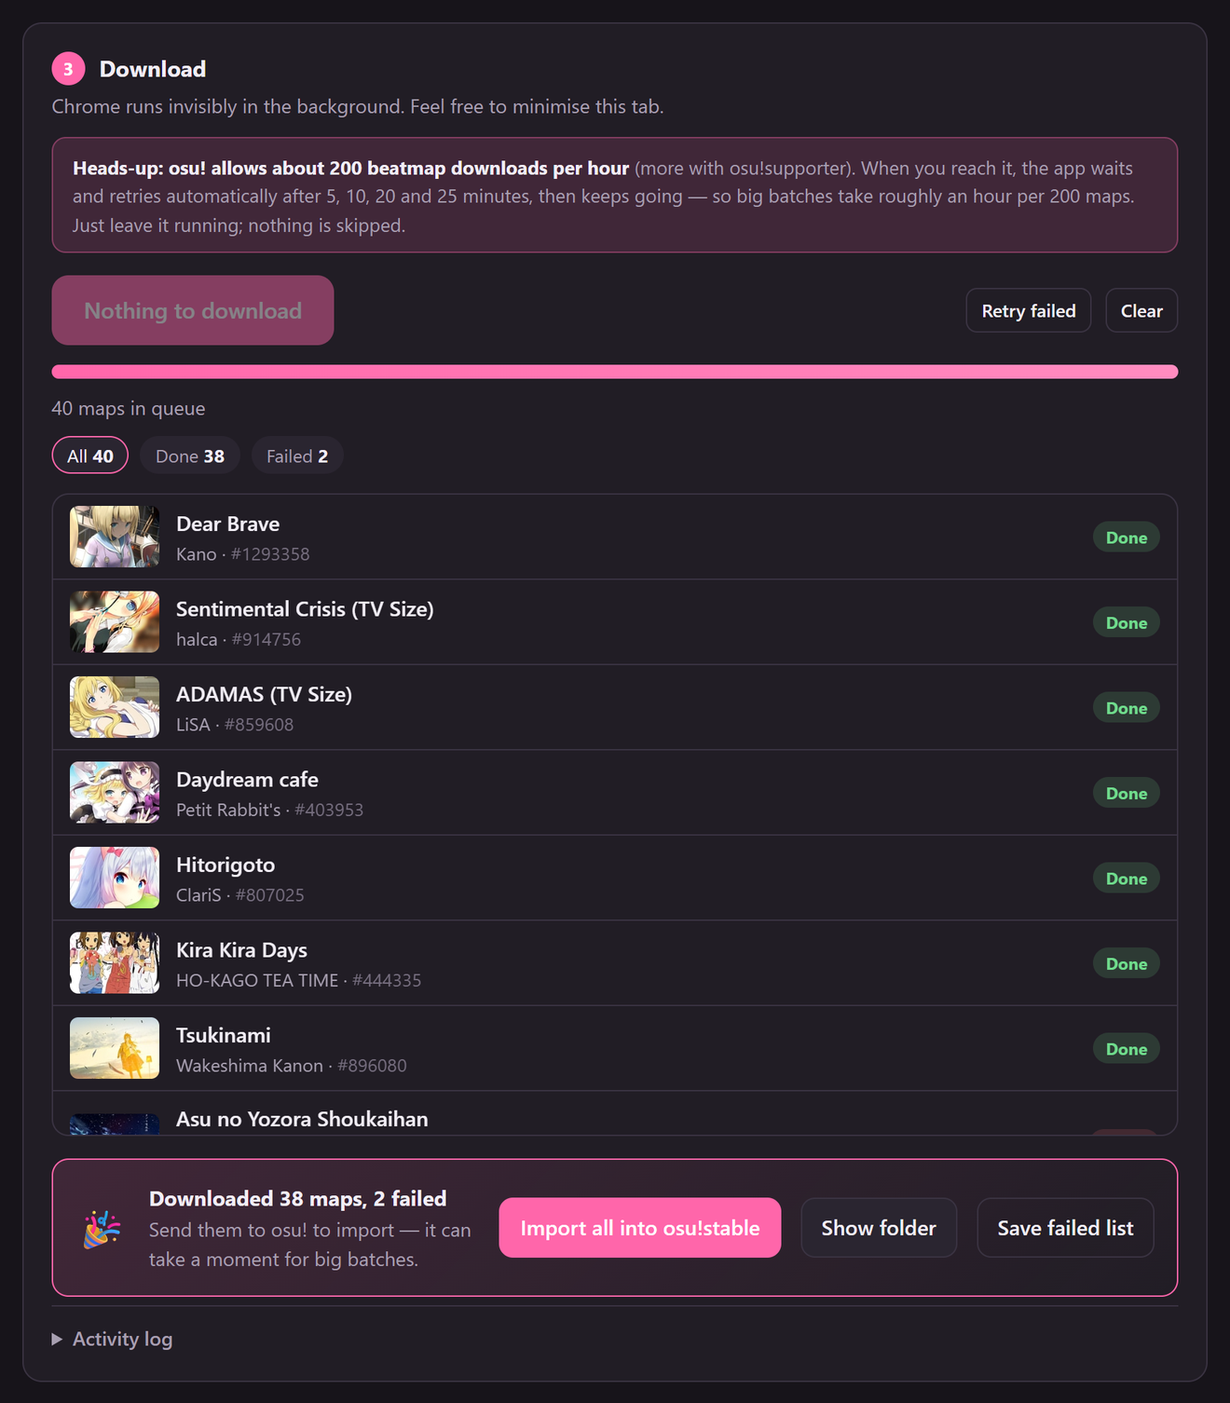
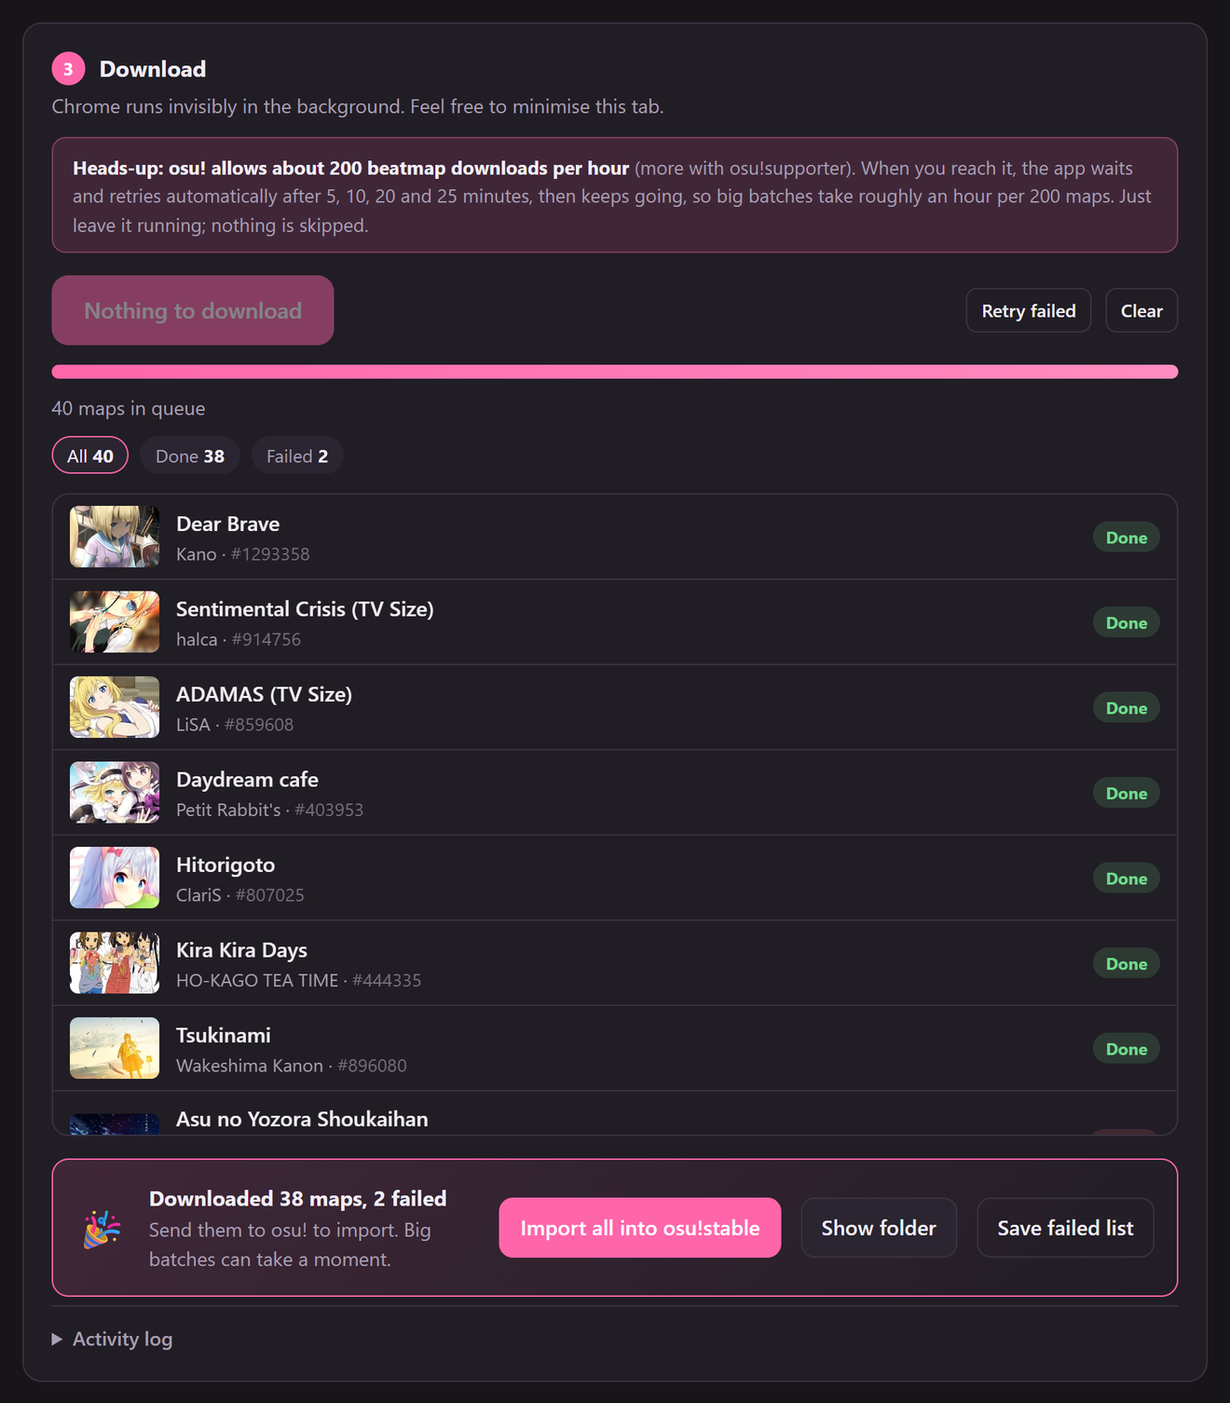
Remove em dashes from the app and README; retake options screenshot without the tooltip

Changed region(s): [[0.5591, 0.1248, 0.9318, 0.156], [0.1242, 0.8738, 0.3727, 0.905], [0.0621, 0.156, 0.3106, 0.1873]]

diff --git a/web/index.html b/web/index.html
@@ -214,7 +214,7 @@ footer { color: var(--dim); font-size: 12px; text-align: center; margin-top: 30p
   </div>
   <div id="loginWaiting" class="hidden">
     <p class="sub"><b>Sign in to osu! in the Chrome window that just opened</b> (including the captcha and any
-      email code). When you're signed in, click the button below — or just close that window.</p>
+      email code). When you're signed in, click the button below, or just close that window.</p>
     <div class="row" style="align-items:center">
       <button class="btn primary big" id="finishLoginBtn" onclick="act('finish-login')">I've signed in</button>
       <button class="btn" onclick="act('cancel-login')">Cancel</button>
@@ -260,7 +260,7 @@ footer { color: var(--dim); font-size: 12px; text-align: center; margin-top: 30p
   </div>
 
   <div id="tab-list" class="hidden">
-    <label class="f" for="pasteBox">Beatmap IDs or links — one per line</label>
+    <label class="f" for="pasteBox">Beatmap IDs or links, one per line</label>
     <textarea id="pasteBox" placeholder="1293358&#10;https://osu.ppy.sh/beatmapsets/914756#osu/1911308&#10;…"></textarea>
     <div class="row" style="margin-top:10px">
       <button class="btn primary" onclick="pasteList()">Load list</button>
@@ -280,7 +280,7 @@ footer { color: var(--dim); font-size: 12px; text-align: center; margin-top: 30p
         </div>
       </div>
       <div class="field">
-        <label class="f" for="songsDir">osu!stable Songs folder <span style="font-weight:400">(optional — skips maps you already own)</span></label>
+        <label class="f" for="songsDir">osu!stable Songs folder <span style="font-weight:400">(optional, skips maps you already own)</span></label>
         <div class="row">
           <input id="songsDir" type="text" class="grow" placeholder="e.g. C:\Users\you\AppData\Local\osu!\Songs" onchange="saveSettings({songs_dir: this.value})">
           <button class="btn" onclick="browse('songsDir', 'Select your osu! Songs folder')">Browse…</button>
@@ -293,7 +293,7 @@ footer { color: var(--dim); font-size: 12px; text-align: center; margin-top: 30p
             <span class="tip-body" role="tooltip">
               <b>osu!lazer</b> stores beatmaps as files named by their SHA-256 hash, so you won't see normal
               song folders you can browse, back up or share.<br><br>
-              Importing into <b>osu!stable</b> keeps a regular <code>Songs</code> folder — and you can still use
+              Importing into <b>osu!stable</b> keeps a regular <code>Songs</code> folder, and you can still use
               those maps in lazer by pointing it at your stable install
               (lazer → Settings → Maintenance → import from stable).
             </span>
@@ -321,8 +321,8 @@ footer { color: var(--dim); font-size: 12px; text-align: center; margin-top: 30p
       </div>
       <div class="help">
         <b>Missing some maps?</b> Turn on <i>Show explicit content</i> in your
-        <a href="https://osu.ppy.sh/home/account/edit" target="_blank" rel="noopener">osu! account settings</a>
-        — otherwise osu! hides the download button for those maps.
+        <a href="https://osu.ppy.sh/home/account/edit" target="_blank" rel="noopener">osu! account settings</a>.
+        Otherwise, osu! hides the download button for those maps.
         <br><span id="historyInfo"></span>
       </div>
     </div>
@@ -335,7 +335,7 @@ footer { color: var(--dim); font-size: 12px; text-align: center; margin-top: 30p
   <p class="sub">Chrome runs invisibly in the background. Feel free to minimise this tab.</p>
   <div class="notice">
     <b>Heads-up: osu! allows about 200 beatmap downloads per hour</b> (more with osu!supporter).
-    When you reach it, the app waits and retries automatically after 5, 10, 20 and 25 minutes, then keeps going —
+    When you reach it, the app waits and retries automatically after 5, 10, 20 and 25 minutes, then keeps going,
     so big batches take roughly an hour per 200 maps. Just leave it running; nothing is skipped.
   </div>
   <div class="row" style="align-items:center">
@@ -352,7 +352,7 @@ footer { color: var(--dim); font-size: 12px; text-align: center; margin-top: 30p
 
   <div class="stats" id="stats" style="margin-top:10px"></div>
 
-  <div class="list" id="list"><div class="empty">Your queue is empty — pick some beatmaps above.</div></div>
+  <div class="list" id="list"><div class="empty">Your queue is empty. Pick some beatmaps above.</div></div>
 
   <div class="done-banner" id="doneBanner">
     <div class="big-emoji">🎉</div>
@@ -372,7 +372,7 @@ footer { color: var(--dim); font-size: 12px; text-align: center; margin-top: 30p
 </section>
 
 <footer>
-  Not affiliated with ppy. Please be kind to osu!'s servers — keep the delays sensible.
+  Not affiliated with ppy. Please be kind to osu!'s servers and keep the delays sensible.
   · <a href="/api/export?which=all">Export queue</a>
 </footer>
 </div>
@@ -481,7 +481,7 @@ function render() {
   $('n1').classList.toggle('ok', signedIn); $('n1').textContent = signedIn ? '✓' : '1';
   $('loginBtn').disabled = !!S.busy || S.running;
 
-  // step 2 — only fill inputs the user isn't editing
+  // step 2: only fill inputs the user isn't editing
   const setVal = (el, v) => { if (document.activeElement !== el) el.value = v; };
   setVal($('folder'), S.folder); setVal($('songsDir'), S.songs_dir);
   if (!$('userQuery').dataset.init) { $('userQuery').value = S.last_user_query; $('userQuery').dataset.init = 1; }
@@ -535,7 +535,7 @@ function render() {
     const etaText = eta ? ` · ~${eta} left` + (j.hourly_limit && (c.queued || 0) > 0 && j.eta > 3600 ? ' incl. osu! limit waits' : '') : '';
     if (j.limited && j.retry_at) {
       const at = new Date(j.retry_at * 1000).toLocaleTimeString([], {hour: 'numeric', minute: '2-digit'});
-      now = `<div class="spinner"></div><span class="waiting">osu!'s hourly download limit reached — retrying at <b>${at}</b> (attempt ${j.retry_attempt} of ${j.retry_attempts})</span>`
+      now = `<div class="spinner"></div><span class="waiting">osu!'s hourly download limit reached. Retrying at <b>${at}</b> (attempt ${j.retry_attempt} of ${j.retry_attempts})</span>`
           + ` <span class="grow"></span> ${finished}/${want}${etaText}`;
     } else {
       now = `<div class="spinner"></div>` + (cur ? `Downloading <b>${esc(cur.title || '#' + cur.id)}</b>` : 'Working…')
@@ -562,7 +562,7 @@ function render() {
     const rows = S.queue.filter(i => filter === 'all' || i.status === filter);
     const shown = rows.slice(0, 500);
     $('list').innerHTML = !rows.length
-      ? `<div class="empty">${total ? 'Nothing here.' : 'Your queue is empty — pick some beatmaps above.'}</div>`
+      ? `<div class="empty">${total ? 'Nothing here.' : 'Your queue is empty. Pick some beatmaps above.'}</div>`
       : shown.map(i => `
         <div class="item s-${i.status}">
           <img loading="lazy" src="https://assets.ppy.sh/beatmaps/${i.id}/covers/list.jpg" alt="" onerror="this.style.visibility='hidden'">
@@ -583,7 +583,7 @@ function render() {
   $('doneBanner').classList.toggle('show', !!showDone);
   if (showDone) {
     $('doneTitle').textContent = `Downloaded ${c.done || 0} map${c.done === 1 ? '' : 's'}` + (c.failed ? `, ${c.failed} failed` : '');
-    $('doneSub').textContent = S.opts.auto_open ? 'They were sent to osu! as they finished.' : 'Send them to osu! to import — it can take a moment for big batches.';
+    $('doneSub').textContent = S.opts.auto_open ? 'They were sent to osu! as they finished.' : 'Send them to osu! to import. Big batches can take a moment.';
     $('exportFailed').classList.toggle('hidden', !c.failed);
   }
   if (wasRunning && !S.running) {
@@ -617,7 +617,7 @@ async function poll() {
     appendLogs(S.logs);
     render();
   } catch {
-    $('now').innerHTML = '<span class="warn">Lost connection to the app — is its window still open?</span>';
+    $('now').innerHTML = '<span class="warn">Lost connection to the app. Is its window still open?</span>';
   } finally { polling = false; }
 }
 setInterval(poll, 800);

diff --git a/app.py b/app.py
@@ -1,4 +1,4 @@
-"""osu! Beatmap Downloader — local web UI.
+"""osu! Beatmap Downloader: local web UI.
 
 Run `python app.py` (or start.bat, or the built exe) and a browser tab opens. Everything stays on
 this machine: the server only listens on 127.0.0.1.
@@ -38,7 +38,7 @@ def _writable(path):
 
 DATA = APP_DIR / "data"
 if not _writable(DATA):
-    # e.g. unzipped into Program Files — fall back to the user's AppData
+    # e.g. unzipped into Program Files, so fall back to the user's AppData
     APP_DIR = Path(os.environ.get("LOCALAPPDATA", Path.home())) / "osu! Beatmap Downloader"
     DATA = APP_DIR / "data"
     DATA.mkdir(parents=True, exist_ok=True)
@@ -123,7 +123,7 @@ class State:
                 self.save_history()
 
     def clients(self):
-        """Which osu! installs exist (cached briefly — this runs on every UI poll)."""
+        """Which osu! installs exist (cached briefly, since this runs on every UI poll)."""
         now = time.time()
         if now - getattr(self, "_clients_at", 0) > 10:
             self._clients = {c: core.find_osu(c, self.songs_dir, self.osu_paths[c])
@@ -208,7 +208,7 @@ def act_login(_):
 
     def run():
         try:
-            S.log("info", "Opened a Chrome window — sign in to osu! there.")
+            S.log("info", "Opened a Chrome window. Sign in to osu! there.")
             user = core.sign_in(PROFILE_DIR, cancel, done)
             S.user = user
             S.save_config()
@@ -270,7 +270,7 @@ def act_fetch(body):
                                      on_progress=lambda n: setattr(S, "busy", f"Fetching… {n} maps"))
         S.set_queue(items)
         have = sum(1 for i in items if i["status"] == "have")
-        S.log("ok", f"Found {len(items)} beatmap sets" + (f" — {have} you already have." if have else "."))
+        S.log("ok", f"Found {len(items)} beatmap sets" + (f", {have} of which you already have." if have else "."))
     in_background("Fetching…", run)
 
 
@@ -294,7 +294,7 @@ def act_settings(body):
             if client not in S.osu_paths:
                 continue
             if folder and not core.osu_in_folder(client, folder):
-                raise ValueError(f"Couldn't find osu!{client} in that folder — pick the folder that contains osu!.exe.")
+                raise ValueError(f"Couldn't find osu!{client} in that folder. Pick the folder that contains osu!.exe.")
             S.osu_paths[client] = folder
             S._clients_at = 0  # re-detect
         if "opts" in body:
@@ -318,7 +318,7 @@ def act_start(_):
     if not S.user:
         raise ValueError("Sign in first.")
     if not any(i["status"] == "queued" for i in S.queue):
-        raise ValueError("Nothing to download — the queue is empty or you already have everything.")
+        raise ValueError("Nothing to download: the queue is empty or you already have everything.")
     opts = {**S.opts, "songs_dir": S.songs_dir, "osu_paths": dict(S.osu_paths)}
     S.job = core.Downloader(S.queue, PROFILE_DIR, S.folder, opts, S.on_item, S.log)
     S.job.start()
@@ -331,7 +331,7 @@ def act_pause(_):
             S.log("info", "Resumed.")
         else:
             S.job.pause_flag.set()
-            S.log("info", "Paused — the current map will finish first.")
+            S.log("info", "Paused. The current map will finish first.")
 
 
 def act_stop(_):
@@ -397,7 +397,7 @@ def act_open_all(_):
         if used != client:
             S.log("warn", f"osu!{client} isn't installed, so the maps went to "
                           f"{'osu!' + used if used != 'default' else 'the default app'} instead.")
-        S.log("ok", "Handed everything to osu! — it'll finish importing on its own.")
+        S.log("ok", "Handed everything to osu!, which will finish importing on its own.")
     in_background("Importing…", run)
 
 
@@ -543,7 +543,7 @@ def main():
         # double-clicking the exe again just brings the existing app back up
         if open_browser:
             webbrowser.open(f"http://127.0.0.1:{preferred}/")
-        print("Already running — opened it in your browser.")
+        print("Already running, so it was opened in your browser.")
         return
 
     # we're the only copy running, so anything left in temp is from an earlier session

diff --git a/osu_core.py b/osu_core.py
@@ -300,7 +300,7 @@ def _duration(seconds):
 
 
 # osu! allows a fixed number of downloads per rolling hour (200 for regular accounts,
-# more for osu!supporters). When it refuses, retry on this cycle — it adds up to an hour,
+# more for osu!supporters). When it refuses, retry on this cycle. It adds up to an hour,
 # so the 4th retry lands after the window has rolled over. Then start again at 5 min.
 QUOTA_RETRY_WAITS = (5 * 60, 10 * 60, 20 * 60, 25 * 60)
 DEFAULT_HOURLY_LIMIT = 200
@@ -494,7 +494,7 @@ class Downloader:
                 self._set(item, "failed", error=reason)
                 self.log("warn", f"{item['id']}: {reason}")
                 if fails_in_row >= 3:
-                    self.log("warn", f"Several failures in a row — osu! may be rate limiting. "
+                    self.log("warn", f"Several failures in a row, so osu! may be rate limiting. "
                                      f"Cooling down for {_duration(cooldown)}.")
                     if not self._sleep(cooldown):
                         return
@@ -508,7 +508,7 @@ class Downloader:
         if used != wanted and not self.warned_client:
             self.warned_client = True
             other = f"osu!{used}" if used != "default" else "the default app"
-            self.log("warn", f"osu!{wanted} isn't installed — importing with {other} instead.")
+            self.log("warn", f"osu!{wanted} isn't installed, so importing with {other} instead.")
 
     def _download_one(self, driver, item, timeout):
         sid = item["id"]
@@ -645,7 +645,7 @@ def import_into_osu(path, client, songs_dir="", custom_paths=None):
 
 
 def open_file(path):
-    """Hand a file/folder to the OS — .osz files open in whichever osu! owns the file type."""
+    """Hand a file or folder to the OS (.osz files open in whichever osu! owns the file type)."""
     import subprocess, sys
     if os.name == "nt":
         # explorer hands the file to its default app from the desktop shell, so that app

diff --git a/README.md b/README.md
@@ -6,7 +6,7 @@
 
 **Bulk-download osu! beatmaps in the background, then import them into osu! in one click.**
 
-Your most played maps, a friend's favourites, or any list of IDs — hundreds at a time,
+Your most played maps, a friend's favourites, or any list of IDs, hundreds at a time,
 with a simple app that runs on your own PC.
 
 [![Download](https://img.shields.io/github/v/release/AustinKol/osubeatmapdownloader?label=download&style=for-the-badge&color=ff66aa)](https://github.com/AustinKol/osubeatmapdownloader/releases/latest)
@@ -36,10 +36,10 @@ So far, this is still the best way that I know of to recover lost beatmaps folde
 
 ## Features
 
-- **Grab whole lists at once.** A player's *most played*, *favourites*, *ranked*, *loved*, *guest* or *graveyard* maps — or paste IDs/links, or open a `.txt` a friend sent you.
+- **Grab whole lists at once.** A player's *most played*, *favourites*, *ranked*, *loved*, *guest* or *graveyard* maps. You can also paste IDs/links or open a `.txt` a friend sent you.
 - **Runs invisibly.** Chrome works in the background (headless). No windows popping up, no need to close your browser first.
 - **Skips what you already have.** Maps in your osu!stable `Songs` folder, in the download folder, or downloaded in an earlier session.
-- **One-click import** into **osu!stable** or **osu!lazer** — or automatically as each map finishes.
+- **One-click import** into **osu!stable** or **osu!lazer**, or automatically as each map finishes.
 - **Handles osu!'s hourly limit for you.** When osu! stops accepting downloads, the app waits and retries on its own, and the time estimate includes those waits. Pause, resume, stop and retry failed maps any time.
 - **Portable.** Unzip and run. Settings, downloads and everything else stay inside the app's folder.
 - **Share your library.** Export your Songs folder as an ID list your friends can load.
@@ -52,14 +52,14 @@ So far, this is still the best way that I know of to recover lost beatmaps folde
 
 > [!NOTE]
 > The app isn't code-signed, so Windows SmartScreen may say it *protected your PC*.
-> Click **More info → Run anyway**. The full source is right here if you'd like to check it — or [run it from source](#run-from-source).
+> Click **More info → Run anyway**. The full source is right here if you'd like to check it, or you can [run it from source](#run-from-source).
 
-A black window opens (that's the app — keep it open while downloading, close it to quit) and your browser shows the interface.
+A black window opens (that's the app: keep it open while downloading and close it to quit) and your browser shows the interface.
 
 > [!IMPORTANT]
 > **osu! allows about 200 beatmap downloads per hour** (osu!supporters get more). This is a limit on osu!'s side
 > and there's no way around it. When you reach it, the app waits and retries automatically after **5, 10, 20 and
-> 25 minutes** (an hour in total), then carries on — repeating that cycle if it's still blocked. Big batches
+> 25 minutes** (an hour in total), then carries on, repeating that cycle if it's still blocked. Big batches
 > therefore take roughly **an hour per 200 maps**: 1,000 maps is about 5 hours. Just leave it running; nothing is
 > skipped, and the time-left estimate already includes the waits.
 
@@ -82,11 +82,11 @@ The app doesn't control that window or read what you type.
 
 ### 2. Choose beatmaps
 
-Type a player name (or leave it empty for yourself), pick a list and how many maps you want — or switch to **From a list** and paste IDs or links.
+Type a player name (or leave it empty for yourself), pick a list and how many maps you want. Or switch to **From a list** and paste IDs or links.
 
 Open **Folders & options** to choose where maps are saved, point the app at your osu!stable `Songs` folder so it skips maps you own, and pick which osu! to import into:
 
-<img src="docs/images/options.png" width="660" alt="Options: download folder, Songs folder, import into osu!stable (recommended) or osu!lazer, with an explanatory tooltip">
+<img src="docs/images/options.png" width="660" alt="Options: download folder, Songs folder, import into osu!stable (recommended) or osu!lazer">
 
 <details>
 <summary><b>osu!stable or osu!lazer?</b></summary>
@@ -94,7 +94,7 @@ Open **Folders & options** to choose where maps are saved, point the app at your
 <br>
 
 **osu!stable is recommended.** osu!lazer stores beatmaps as files named by their SHA-256 hash, so there's no
-normal `Songs` folder you can browse, back up or share. Importing into stable keeps regular song folders — and
+normal `Songs` folder you can browse, back up or share. Importing into stable keeps regular song folders, and
 lazer can still use them: in lazer, go to **Settings → Maintenance** and import from your stable install.
 
 The app finds both automatically (wherever they're installed). If it can't, click **Locate…** and pick the folder
@@ -103,7 +103,7 @@ that contains `osu!.exe`. If the one you chose isn't installed, it falls back to
 
 ### 3. Download
 
-Hit **Download**. You can minimise the tab — the list, progress bar and time estimate keep updating. If osu!'s hourly
+Hit **Download**. You can minimise the tab while the list, progress bar and time estimate keep updating. If osu!'s hourly
 limit kicks in, the status line shows when the next retry happens.
 
 <img src="docs/images/queue.png" width="660" alt="Download step with a queue of 40 maps ready to download">
@@ -117,11 +117,11 @@ When it's done, click **Import all into osu!** (or tick *Import as they finish* 
 | Problem | Fix |
 |---|---|
 | **"No download button"** for some maps | Turn on **Show explicit content** in your [osu! account settings](https://osu.ppy.sh/home/account/edit). Otherwise the map may have been removed. |
-| **"osu!'s hourly download limit reached"** | Expected after about 200 maps in an hour. The app retries the same map after 5, 10, 20 and 25 minutes and continues once osu! allows it — just leave it running. Skipping to other maps doesn't help: the limit is per account, not per map. |
+| **"osu!'s hourly download limit reached"** | Expected after about 200 maps in an hour. The app retries the same map after 5, 10, 20 and 25 minutes and continues once osu! allows it, so just leave it running. Skipping to other maps doesn't help: the limit is per account, not per map. |
 | **"You're signed out of osu!"** | Your saved sign-in expired (after about a month) or you signed out. Click **Sign in with osu!** again. |
 | **The sign-in window doesn't appear** | Check your taskbar for a new Chrome window. Google Chrome must be installed. |
 | **Chrome won't start** | Make sure Google Chrome is installed and up to date. The first run needs internet to fetch a matching ChromeDriver. |
-| **Can't save settings** | The app's folder must be writable — don't put it in *Program Files*. (It will fall back to `%LOCALAPPDATA%\osu! Beatmap Downloader`.) |
+| **Can't save settings** | The app's folder must be writable, so don't put it in *Program Files*. (It will fall back to `%LOCALAPPDATA%\osu! Beatmap Downloader`.) |
 | **Want to see what the browser is doing** | *Folders & options* → **Show the browser**. The *Activity log* at the bottom also shows every step. |
 
 ## How it works
@@ -170,7 +170,7 @@ git clone https://github.com/AustinKol/osubeatmapdownloader.git
 cd osubeatmapdownloader
 ```
 
-On Windows, double-click **`start.bat`** — it creates a virtual environment, installs dependencies and opens the app.
+On Windows, double-click **`start.bat`**. It creates a virtual environment, installs dependencies and opens the app.
 Elsewhere:
 
 ```bash
@@ -185,8 +185,8 @@ Options: `--port 1234` to use another port, `--no-browser` to not open a tab.
 
 Double-click **`build.bat`**. It produces:
 
-- `dist\osu! Beatmap Downloader\` — the portable app folder
-- `dist\osu-beatmap-downloader-win64.zip` — that folder zipped, ready to attach to a GitHub release
+- `dist\osu! Beatmap Downloader\`: the portable app folder
+- `dist\osu-beatmap-downloader-win64.zip`: that folder zipped, ready to attach to a GitHub release
 
 ### Project layout
 
@@ -194,7 +194,7 @@ Double-click **`build.bat`**. It produces:
 |---|---|
 | [`app.py`](app.py) | Local web server and the actions behind every button |
 | [`osu_core.py`](osu_core.py) | osu! profile lists, headless Chrome downloader, osu!stable/lazer detection |
-| [`web/index.html`](web/index.html) | The whole interface — plain HTML, CSS and JavaScript |
+| [`web/index.html`](web/index.html) | The whole interface, in plain HTML, CSS and JavaScript |
 | [`build.bat`](build.bat) · [`tools/`](tools) · [`assets/`](assets) | Release packaging (PyInstaller) and the app icon |
 | [`start.bat`](start.bat) | Run-from-source launcher for Windows |
 
@@ -206,7 +206,7 @@ lookup lives in `CLICK_DOWNLOAD_JS` in [`osu_core.py`](osu_core.py).
 ## Disclaimer
 
 Not affiliated with or endorsed by ppy Pty Ltd. "osu!" is a trademark of ppy Pty Ltd. Please be considerate of
-osu!'s servers — keep the default delays and don't download more than you'll play.
+osu!'s servers: keep the default delays and don't download more than you'll play.
 
 ## License
 
